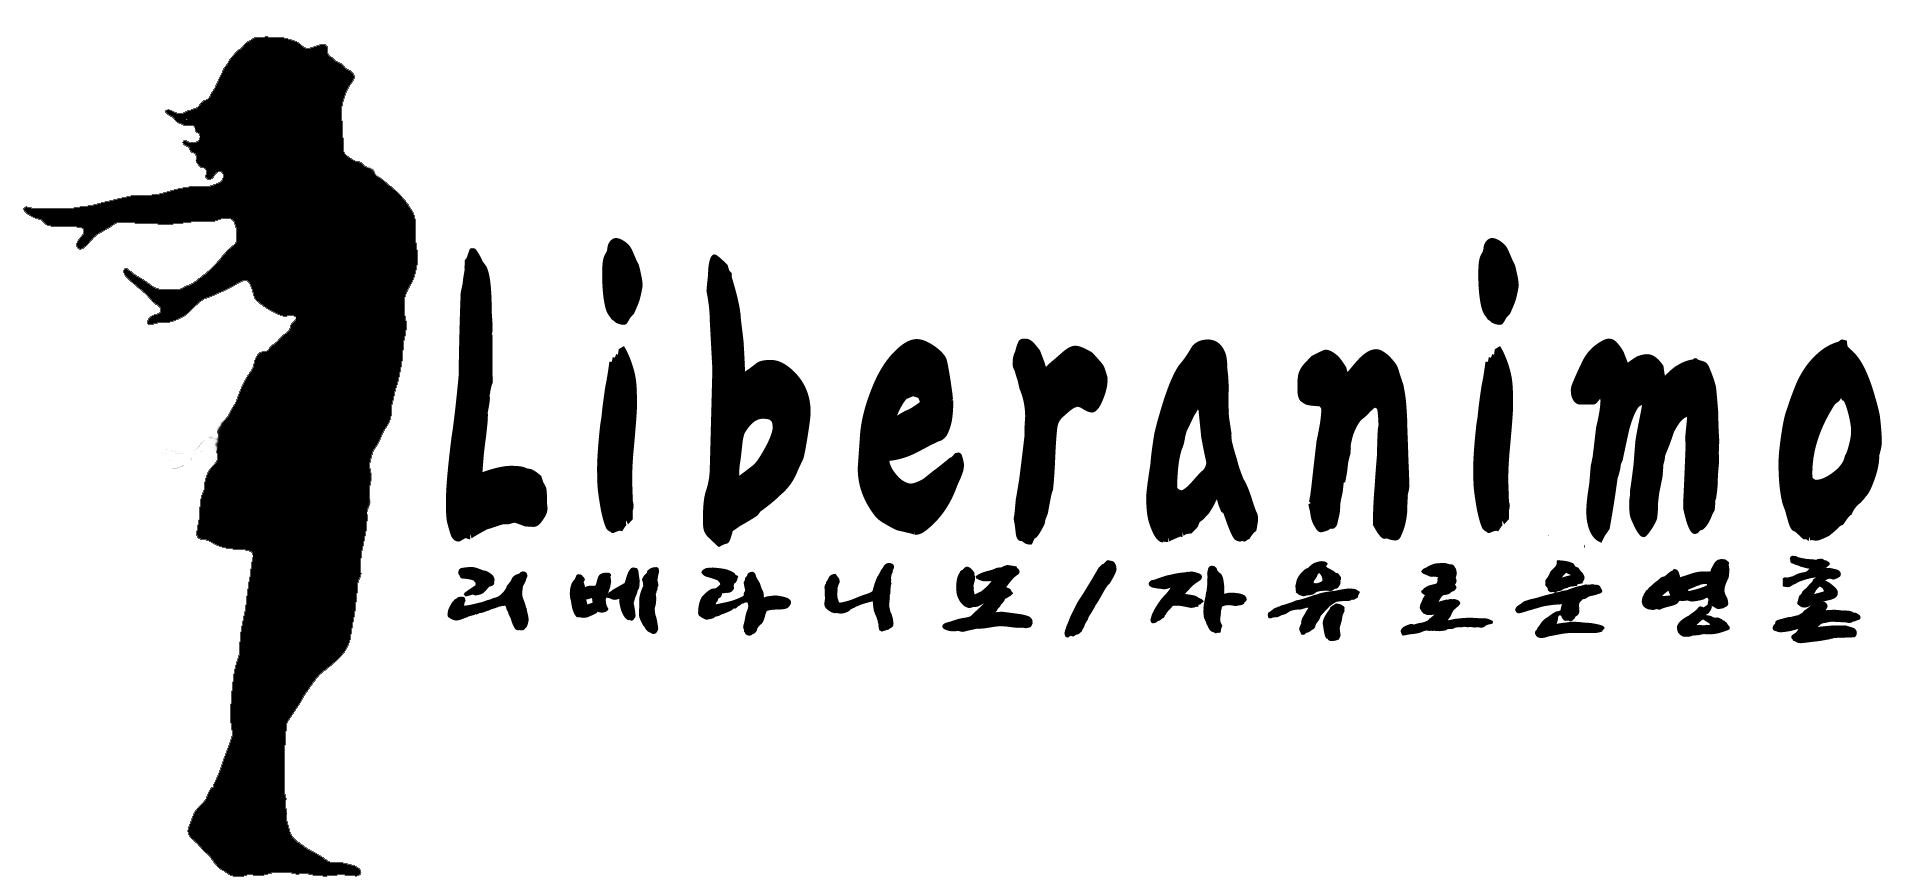
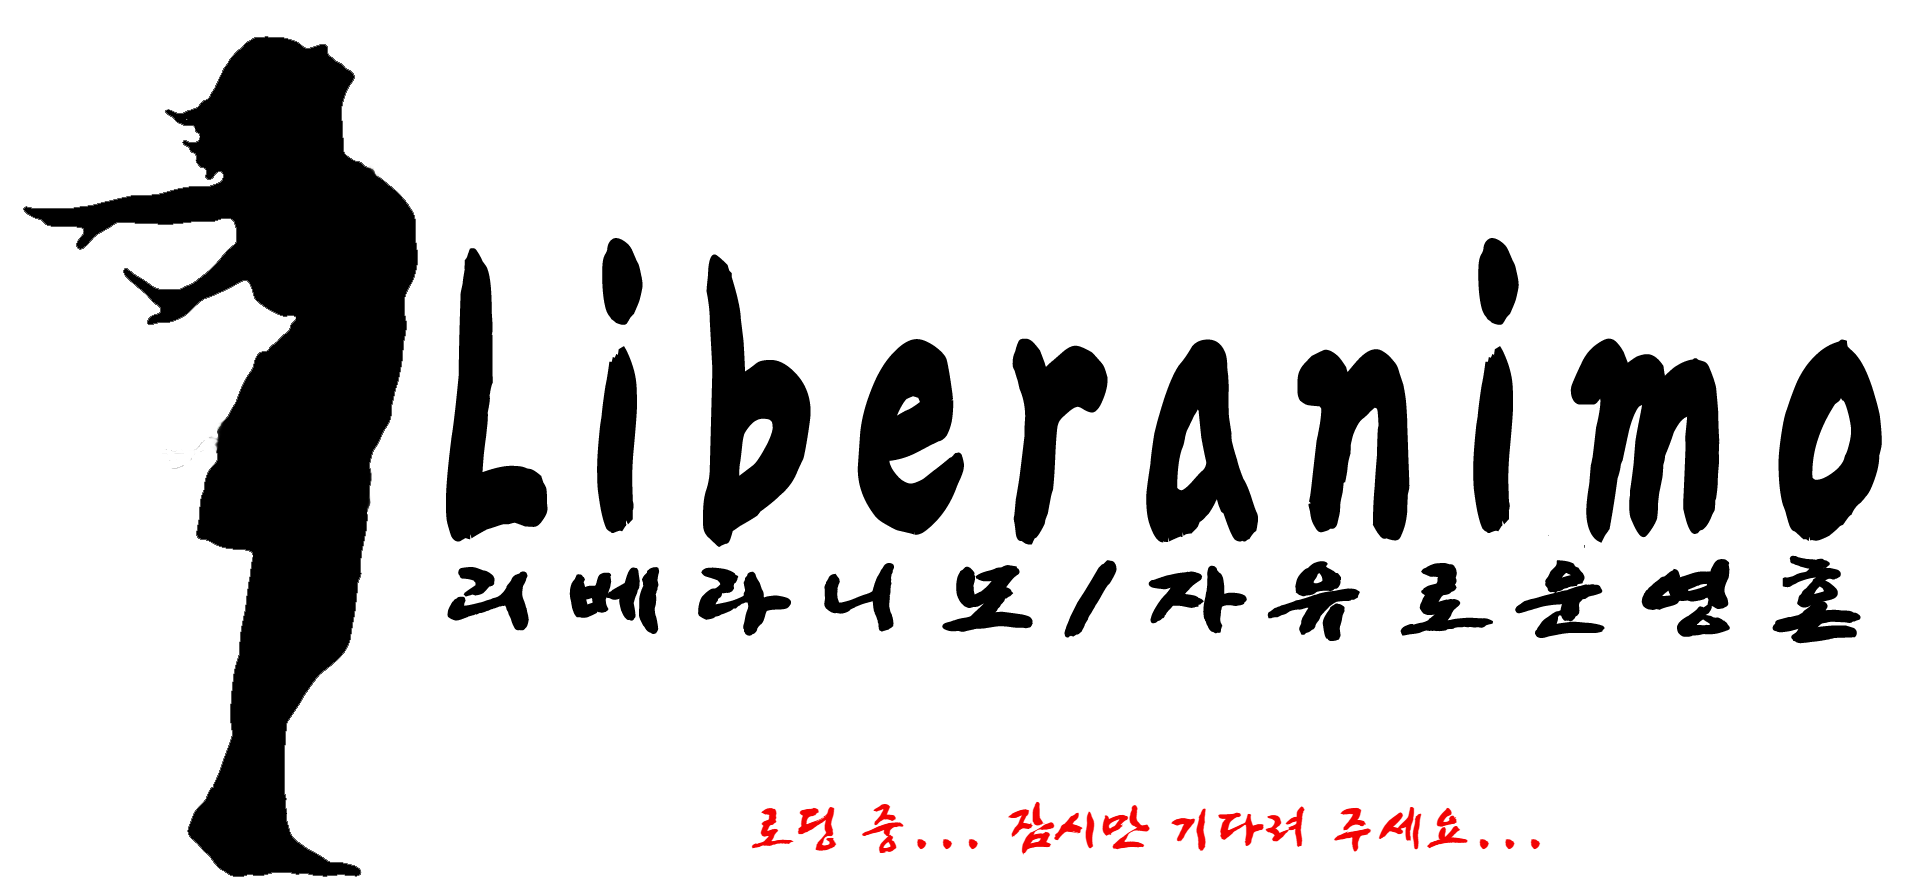
20250430 edit 스플래시 변경 및 스크립트 매니저 설정 UI구현, 에러 수정

Changed region(s): [[0.5312, 0.9071, 0.7812, 0.9675], [0.375, 0.9071, 0.4688, 0.9675]]

diff --git a/gui.py b/gui.py
@@ -48,6 +48,7 @@ class GUI(QMainWindow, form_class):
         self.set_widgets()
         self.gui_fx채움_계좌콤보()
         self.gui_fx채움_조건콤보()
+        self.gui_fx채움_스크립트콤보()
         self.gui_fx채움_전략정의()
         self.gui_fx전시_전략정의()
         self.set_widget_events()
@@ -171,6 +172,12 @@ class GUI(QMainWindow, form_class):
             self.tblScriptVar.clicked.connect(lambda x: self.gui_var_select(x.row()))  # 변수 선택
             self.btnVarDel.clicked.connect(self.gui_var_delete)
             self.btnVarSave.clicked.connect(self.gui_var_save)
+
+            # 전략정의 에서 스크립트
+            self.btnScriptBuy.clicked.connect(lambda: self.gui_script_get(kind='buy'))
+            self.btnScriptSell.clicked.connect(lambda: self.gui_script_get(kind='sell'))
+            self.btnScriptBuyClear.clicked.connect(lambda: self.gui_script_get(clear='buy'))
+            self.btnScriptSellClear.clicked.connect(lambda: self.gui_script_get(clear='sell'))
 
             self.gui_tabs_init()
 
@@ -320,7 +327,24 @@ class GUI(QMainWindow, form_class):
             if not name:
                 QMessageBox.warning(self, '알림', '설정 이름을 입력하세요.')
                 return
-
+            
+            if self.chkScriptBuy.isChecked():
+                if not self.ledScriptBuy.text():
+                    QMessageBox.warning(self, '알림', '매수 스크립트를 입력하세요.')
+                    return
+            if self.chkScriptSell.isChecked():
+                if not self.ledScriptSell.text():
+                    QMessageBox.warning(self, '알림', '매도 스크립트를 입력하세요.')
+                    return
+            if self.chkConditionBuy.isChecked():
+                if not self.ledConditionBuy.text():
+                    QMessageBox.warning(self, '알림', '매수 조건식을 입력하세요.')
+                    return
+            if self.chkConditionSell.isChecked():
+                if not self.ledConditionSell.text():
+                    QMessageBox.warning(self, '알림', '매도 조건식을 입력하세요.')
+                    return
+                
             dict설정 = dc.const.DEFAULT_STRATEGY_SETS
             dict설정['전략명칭'] = name
 
@@ -419,6 +443,28 @@ class GUI(QMainWindow, form_class):
 
         except Exception as e:
             logging.error(f'전략 선택 오류: {type(e).__name__} - {e}', exc_info=True)
+
+    def gui_script_get(self, kind=None, clear=None):
+        """스크립트 선택 가져오기 버튼 클릭"""
+        try:
+            # 현재 선택된 스크립트 가져오기
+            script_text = self.cbScript.currentText()
+
+            if kind:
+                if kind == 'buy':
+                    self.ledScriptBuy.setText(script_text)
+                elif kind == 'sell':
+                    self.ledScriptSell.setText(script_text)
+            elif clear:
+                if clear == 'buy':
+                    self.ledScriptBuy.setText('')
+                    self.chkScriptBuy.setChecked(False)
+                elif clear == 'sell':
+                    self.ledScriptSell.setText('')
+                    self.chkScriptSell.setChecked(False)
+
+        except Exception as e:
+            logging.error(f'스크립트 선택 오류: {type(e).__name__} - {e}', exc_info=True)
 
     # QWidget 이벤트 -------------------------------------------------------------------------------------
     def gui_account_reload(self):
@@ -726,6 +772,8 @@ class GUI(QMainWindow, form_class):
                     self.ledVarValue.setText('')
                     gm.scm.delete_script_compiled(name)
                     self.txtScriptMsg.clear()
+                    gm.list스크립트 = gm.스크립트.get(column='스크립트명')
+                    self.gui_fx채움_스크립트콤보()
 
         except Exception as e:
             logging.error(f'스크립트 삭제 오류: {type(e).__name__} - {e}', exc_info=True)
@@ -769,6 +817,8 @@ class GUI(QMainWindow, form_class):
             if script_type:
                 gm.스크립트.set(key=name, data={'스크립트': script, '타입': script_type, '변수': json.dumps(vars), '설명': desc})
                 gm.스크립트.update_table_widget(self.tblScript)
+                gm.list스크립트 = gm.스크립트.get(column='스크립트명')
+                self.gui_fx채움_스크립트콤보()
                 self.txtScriptMsg.clear()
                 self.script_edited = False
             else:
@@ -839,6 +889,14 @@ class GUI(QMainWindow, form_class):
             self.cbCondition.setCurrentIndex(0)
         except Exception as e:
             logging.error(f'조건콤보 채움 오류: {type(e).__name__} - {e}', exc_info=True)
+
+    def gui_fx채움_스크립트콤보(self):
+        try:
+            self.cbScript.clear()
+            self.cbScript.addItems([script for script in gm.list스크립트 if script.strip()])
+            self.cbScript.setCurrentIndex(0)
+        except Exception as e:
+            logging.error(f'스크립트콤보 채움 오류: {type(e).__name__} - {e}', exc_info=True)
 
     def gui_fx채움_전략정의(self):
         try:

diff --git a/strategy.py b/strategy.py
@@ -84,14 +84,17 @@ class Strategy:
 
     def is_buy(self, code, rqname, price=0) -> tuple[bool, dict, str]:
         """매수 조건 충족 여부를 확인하는 메소드"""
+        name = self.dict종목정보.get(code, next='종목명')
+        
+        if self.매수스크립트적용:
+            script_condition = gm.scm.run_script_compiled(code, self.매수스크립트)
+            if self.매수스크립트AND and not script_condition: return False, {}, f"매수스크립트 조건 불충족: {code} {name}"
+            logging.info(f">>> 매수스크립트 조건 충족: {code} {name}")
+
         if not gm.config.sim_on:
             status_market = la.answer('admin', 'com_market_status')
             if status_market not in dc.ms.장운영시간: return False, {}, "장 운영시간이 아님"
 
-        if not code:
-            logging.warning(f'종목코드가 없습니다. 매수 조건 검사 실패: {self.전략} - {rqname}')
-            return False, {}, f"종목코드없음 : {code} "
-        name = self.dict종목정보.get(code, next='종목명')
 
         if not gm.ct.get(self.전략, "000000", self.매수전략): 
             return False, {}, f"전략별 매수 횟수 제한 {code} {name} 매수횟수={self.체결횟수} 회 초과"
@@ -205,9 +208,16 @@ class Strategy:
                 send_data['price'] = hoga(현재가, self.매도호가)
                 send_data['msg'] = '매도지정'
 
+            if self.매도스크립트적용:
+                script_condition = gm.scm.run_script_compiled(code, self.매도스크립트, kwargs={'매수가': 매입가})
+                if self.매도스크립트OR and script_condition: 
+                    send_data['msg'] = '전략매도'
+                    return True, send_data, f"전략매도: {code} {종목명}"
+
             if self.매도적용 and sell_condition: # 검색 종목이므로 그냥 매도
-                send_data['msg'] = '전략매도'
-                return True, send_data,  f"전략매도:  {code} {종목명}"
+                if self.매도스크립트적용 and not script_condition: return False, {}, f"매도스크립트 조건 불충족: {code} {종목명}"
+                send_data['msg'] = '검색매도'
+                return True, send_data,  f"검색매도: {code} {종목명}"
 
             if gm.config.sim_on and (수익률 > 30 or 수익률 < -30):
                 return False, {}, f"시뮬레이션 비정상 수익률: {code} {종목명} 매입가={매입가} 현재가={현재가} 수익률={수익률}"

diff --git a/public.py b/public.py
@@ -501,6 +501,16 @@ class Constants:        # 상수 정의
         '손실제한': 'chkLossLimit',
         '손실제한율': 'dsbLossLimit',
 
+        # 스크립트 전략
+        '매수스크립트적용': 'chkScriptBuy',
+        '매수스크립트': 'ledScriptBuy',
+        '매수스크립트AND': 'rbScriptBuyAnd',
+        '매수스크립트OR': 'rbScriptBuyOr',
+        '매도스크립트적용': 'chkScriptSell',
+        '매도스크립트': 'ledScriptSell',
+        '매도스크립트AND': 'rbScriptSellAnd',
+        '매도스크립트OR': 'rbScriptSellOr',
+
         '남은횟수': 'xxremain',
     }
     DEFAULT_STRATEGY_SETS = {
@@ -555,6 +565,15 @@ class Constants:        # 상수 정의
         '스탑주문율': 0.0,
         '손실제한': True,
         '손실제한율': 3.0,
+
+        '매수스크립트적용': False,
+        '매수스크립트': '',
+        '매수스크립트AND': True,
+        '매수스크립트OR': False,
+        '매도스크립트적용': False,
+        '매도스크립트': '',
+        '매도스크립트AND': True,
+        '매도스크립트OR': False,
 
         '남은횟수': 1000,
     }

diff --git a/chart.py b/chart.py
@@ -1395,6 +1395,9 @@ class ScriptManager:
             logging.error(f"들여쓰기 처리 오류: {e}")
             # 오류 발생 시 원본 반환 (실행은 실패하더라도 예외는 발생시키지 않음)
             return script
+
+    def _is_valid_identifier(self, name):
+        return name.isidentifier()  # Python 3.x에서는 isidentifier 메서드가 있습니다.
             
     def run_script(self, code: str, name: str, check_only=False, script_data=None, is_sub_call=False, kwargs={}):
         """스크립트 또는 사용자 함수 실행/검사
@@ -1427,6 +1430,9 @@ class ScriptManager:
         
         # 엔티티 구분 (로깅용)
         entity_type = "스크립트"
+        if not self._is_valid_identifier(name):
+            result_dict['error'] = f"유효하지 않은 스크립트 이름: {name}"
+            return result_dict
         
         # 순환 참조 방지 (모든 유형에 적용)
         script_key = f"{name}:{code}"

diff --git a/admin.py b/admin.py
@@ -75,11 +75,10 @@ class Admin:
         gm.스크립트변수 = TableManager(gm.tbl.hd스크립트변수)
         scripts = gm.scm.scripts.copy()
         dict_data = []
-        list스크립트 = []
         for k, v in scripts.items():
             dict_data.append({'스크립트명': k, '타입': v.get('type', ''), '스크립트': v.get('script', '').strip(), '변수': json.dumps(v.get('vars', {})), '설명': v.get('desc', '')})
-            list스크립트.append(k)
         gm.스크립트.set(data=dict_data)
+        gm.list스크립트 = gm.스크립트.get(column='스크립트명')
         gm.qwork['gui'].put(Work(order='gui_script_show', job={}))
 
     def get_conditions(self):
